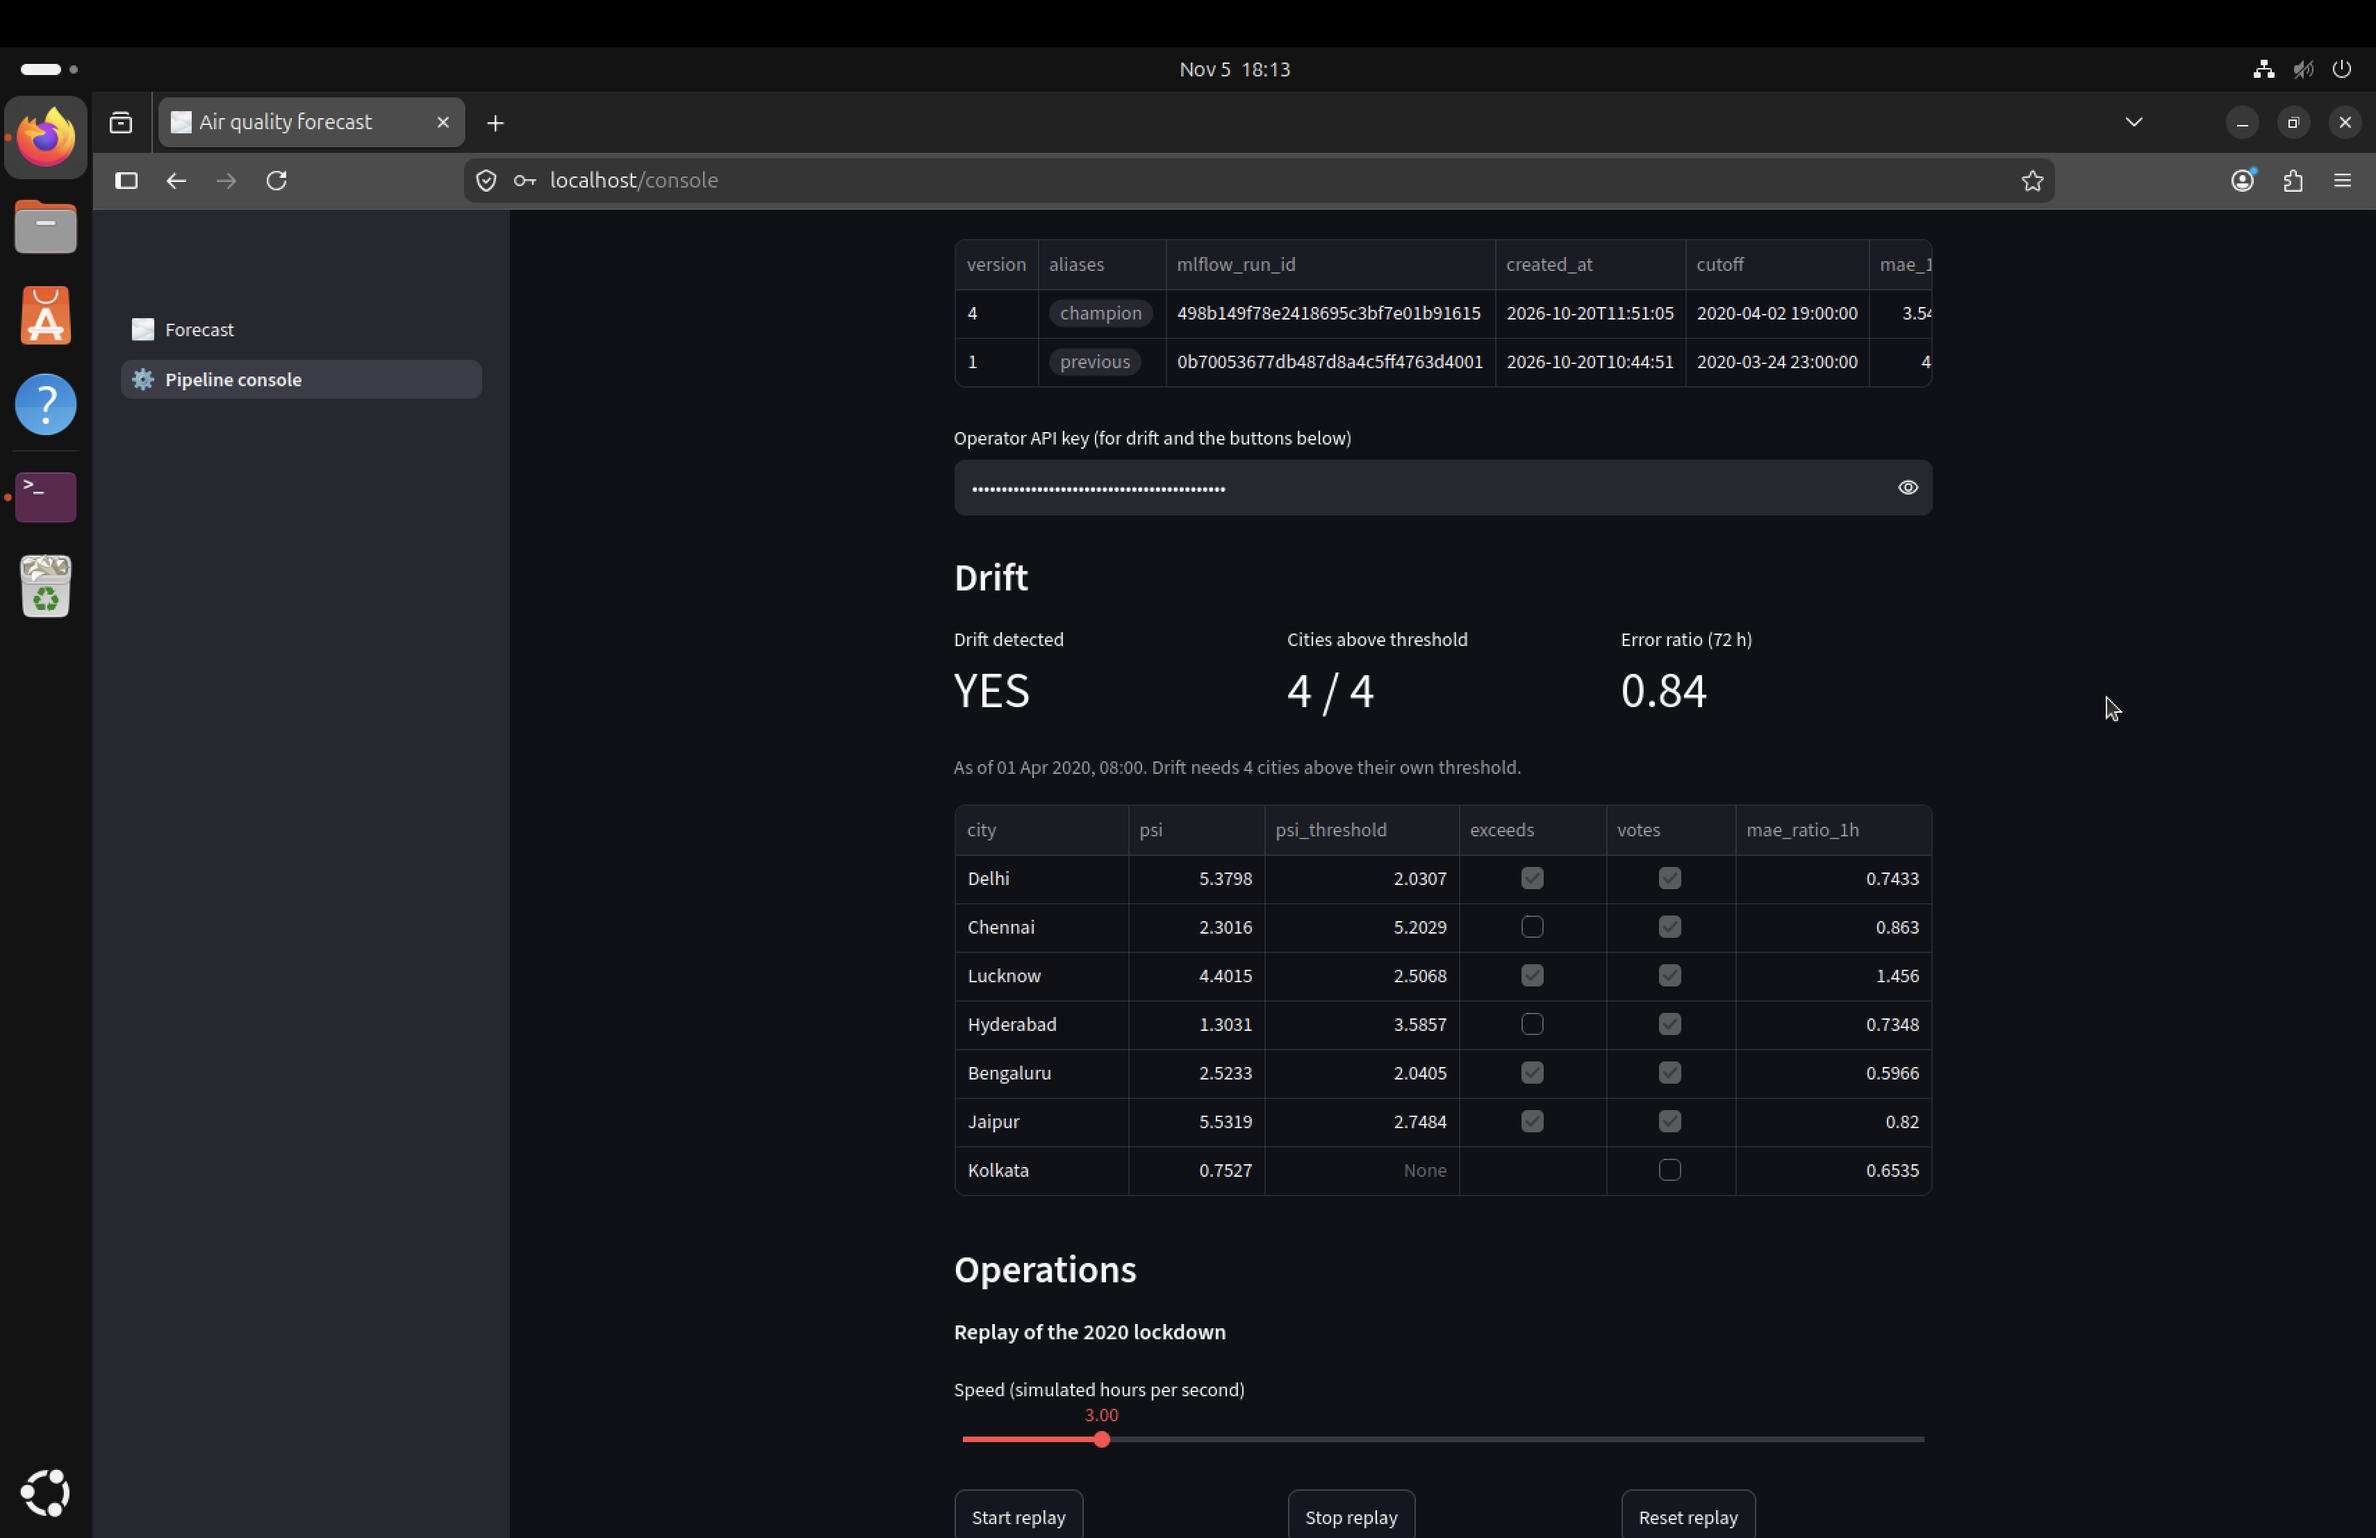
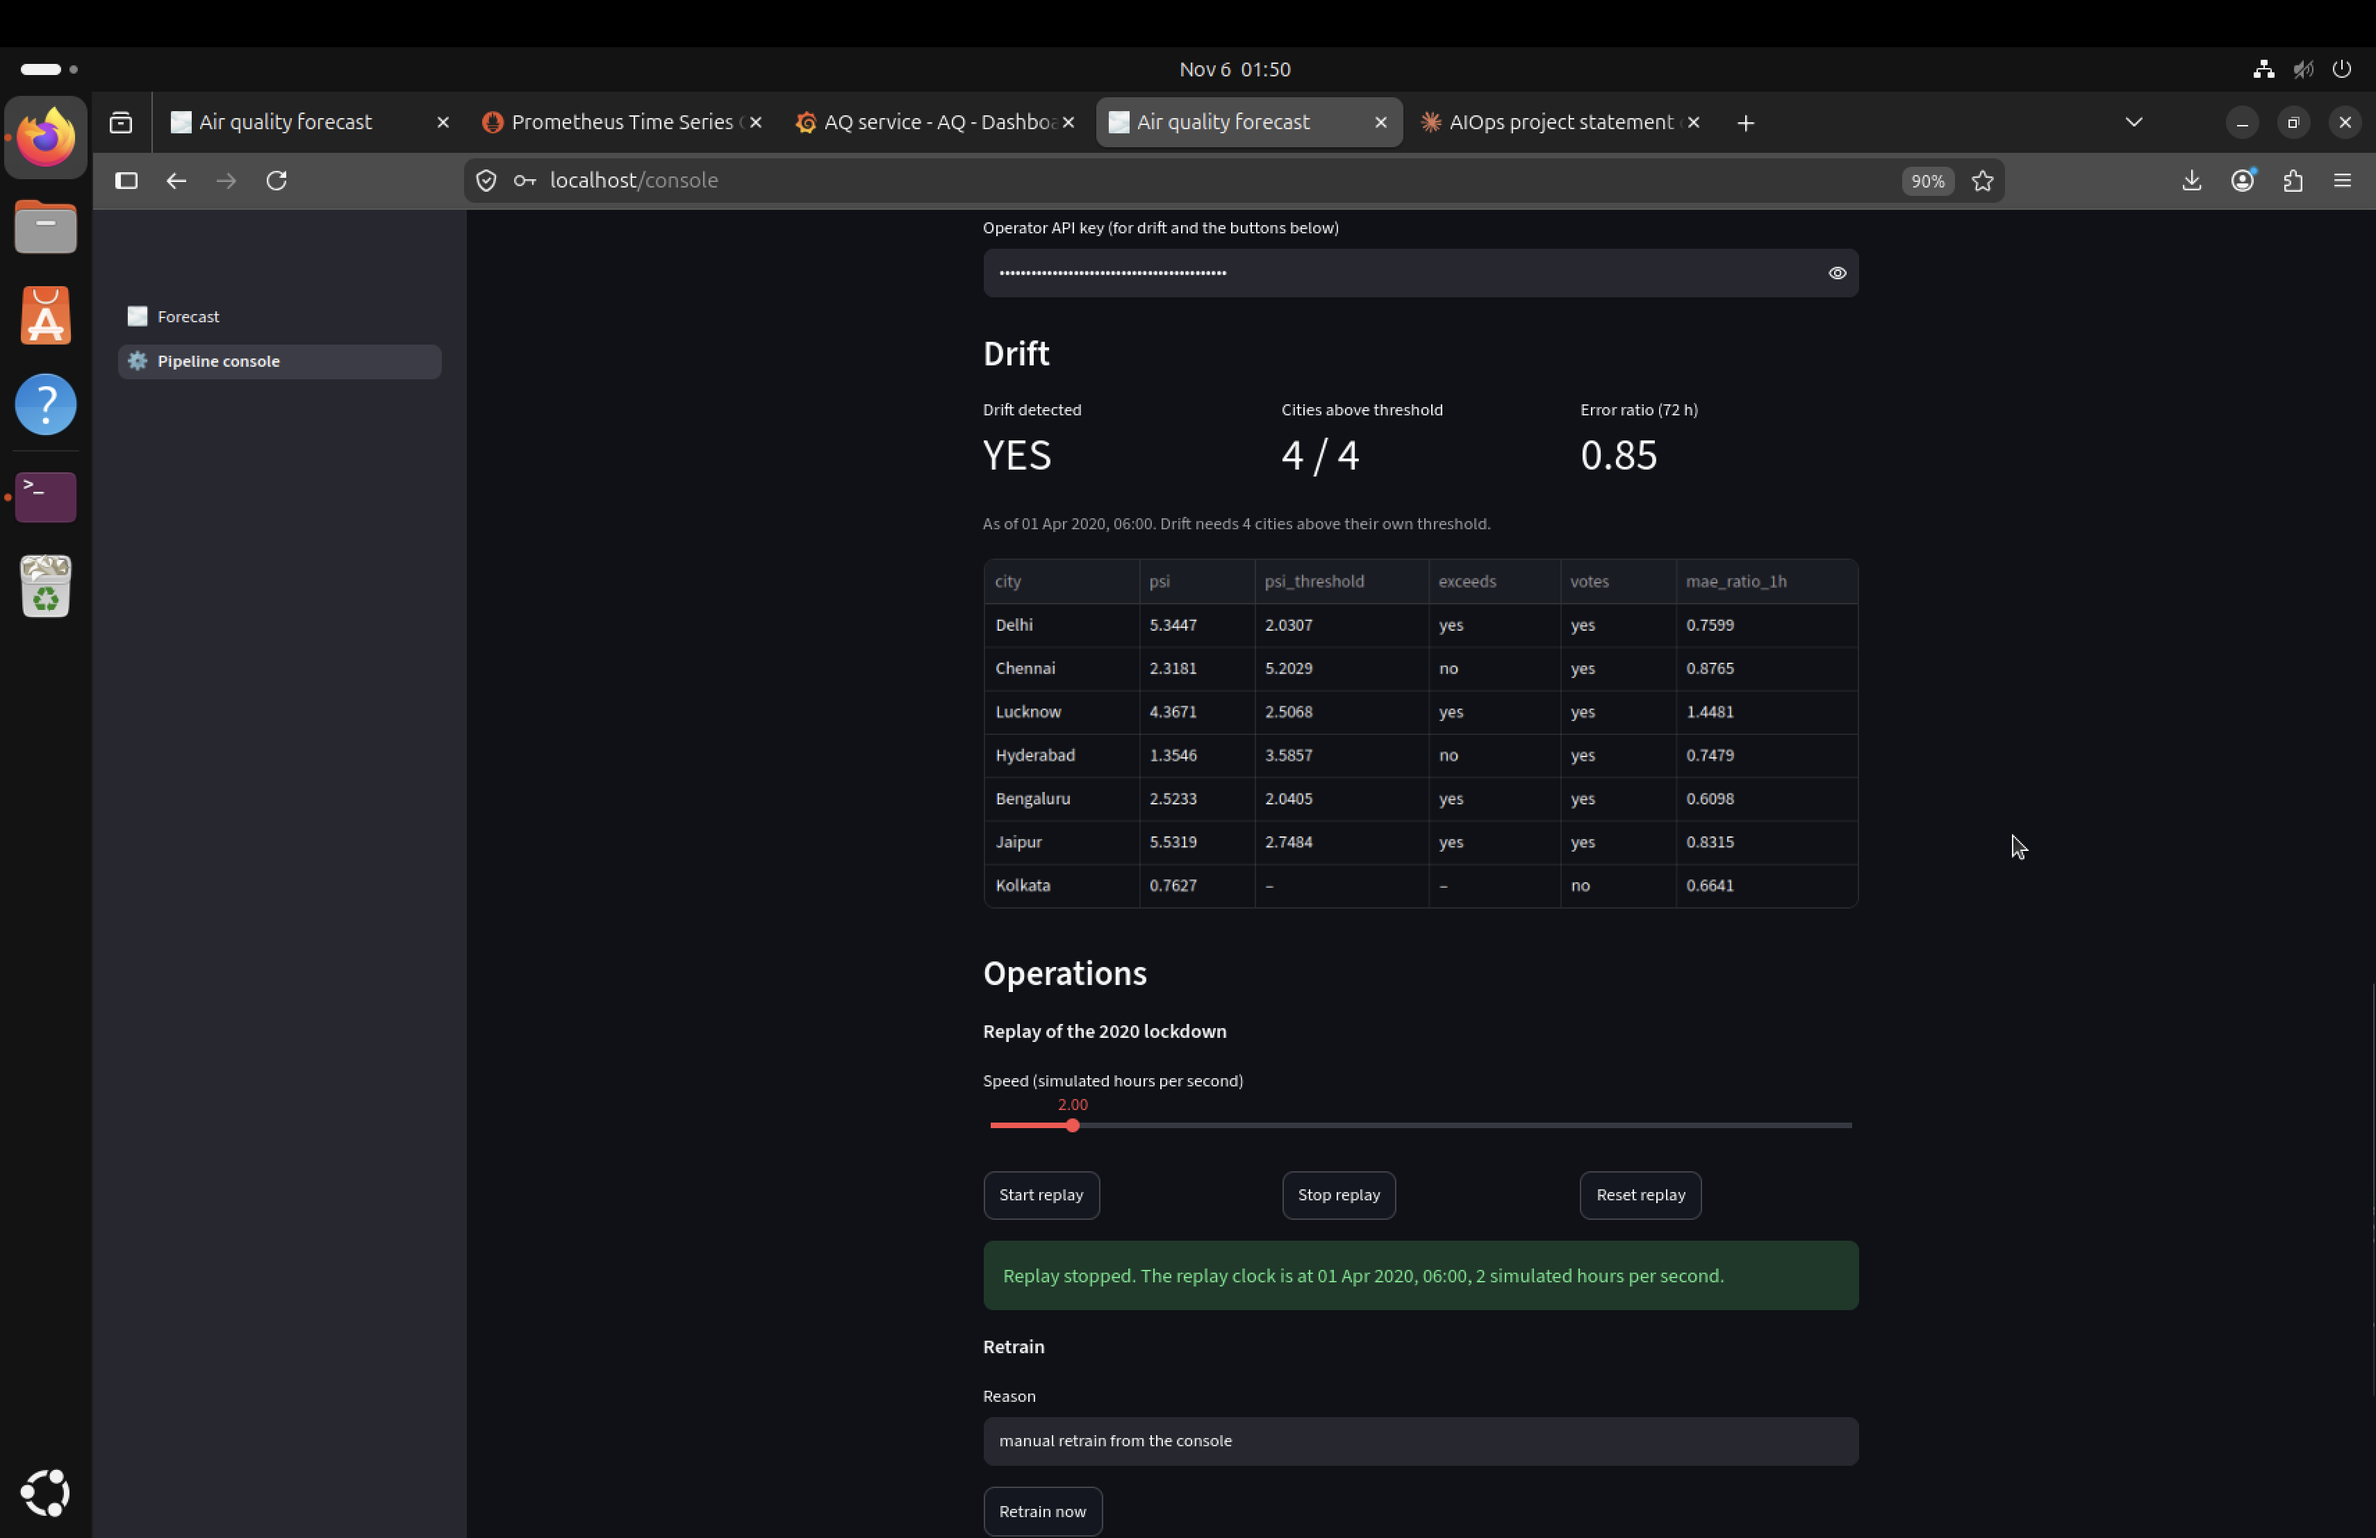
Screenshots 10 and 11 retaken on the new console
Drift table shows "–" and yes/no instead of "None"; screenshot 11 shows
the rollback result as a sentence. Test report note updated. v4 is
champion, v1 previous, no new retrain request. CI: 362 of 362 pass.

diff --git a/docs/test_report.md b/docs/test_report.md
@@ -1,6 +1,6 @@
 # Test Report
 
-I ran the whole suite and every acceptance check again on 2026-10-21, against the live serve stack, with the plan in `docs/test_plan.md`. The rollback drill found two real defects in the compose set-up. I fixed both and ran everything again. After the final audit (`docs/final_audit.md`) I added 9 tests and the checks E2E-18 to E2E-22, and on 2026-11-03 I ran the suite again (350 of 350). On 2026-11-05 I added 3 frontend tests for the forecast page's replay-clock note (353 of 353), then 5 tests for the rollback fix (D-2) and 1 for the console layout (D-5) (359 of 359). Last, I added 3 tests for the console's ops messages and drift table, which now show plain sentences and "–" instead of the raw response and "None", and ran the suite once more. The pytest numbers below come from that last run; the other sections say when each check was run. Screenshots 10 and 11 in the user manual were taken before that last change, so they still show the old "None" cells and, in 11, the raw rollback response.
+I ran the whole suite and every acceptance check again on 2026-10-21, against the live serve stack, with the plan in `docs/test_plan.md`. The rollback drill found two real defects in the compose set-up. I fixed both and ran everything again. After the final audit (`docs/final_audit.md`) I added 9 tests and the checks E2E-18 to E2E-22, and on 2026-11-03 I ran the suite again (350 of 350). On 2026-11-05 I added 3 frontend tests for the forecast page's replay-clock note (353 of 353), then 5 tests for the rollback fix (D-2) and 1 for the console layout (D-5) (359 of 359). Last, I added 3 tests for the console's ops messages and drift table, which now show plain sentences and "–" instead of the raw response and "None", and ran the suite once more. The pytest numbers below come from that last run; the other sections say when each check was run. I retook screenshots 10 and 11 on the new console on 2026-11-06. The drift table shows "–" and yes/no with no "None" cells, and 11 shows the rollback result as the sentence "Rolled back from version 4 to version 1." After taking 11 I rolled back again, so v4 is champion and v1 previous, and no retrain request was left in `ops/requests/`.
 
 ## 1. Summary
 
